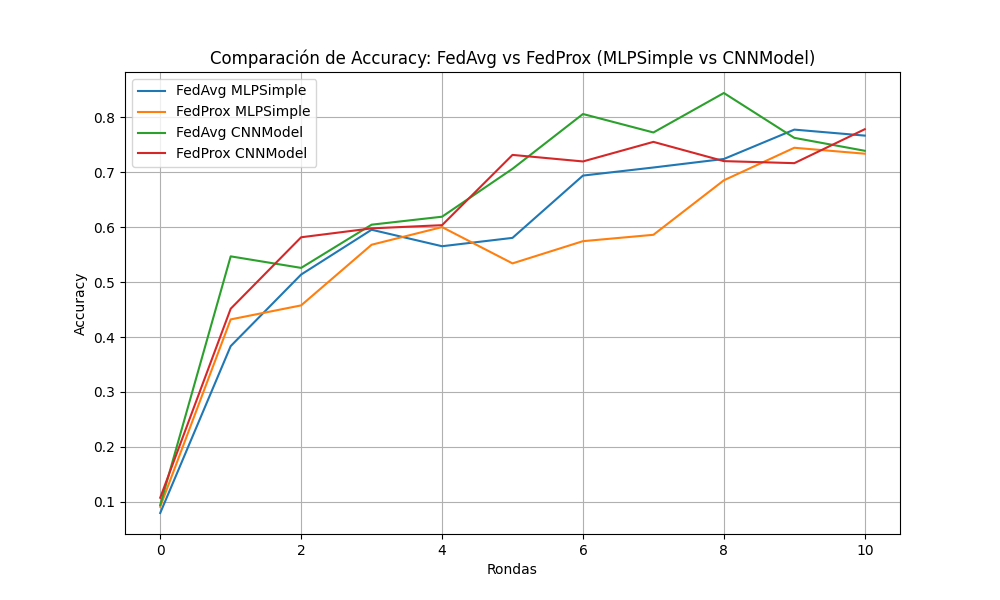
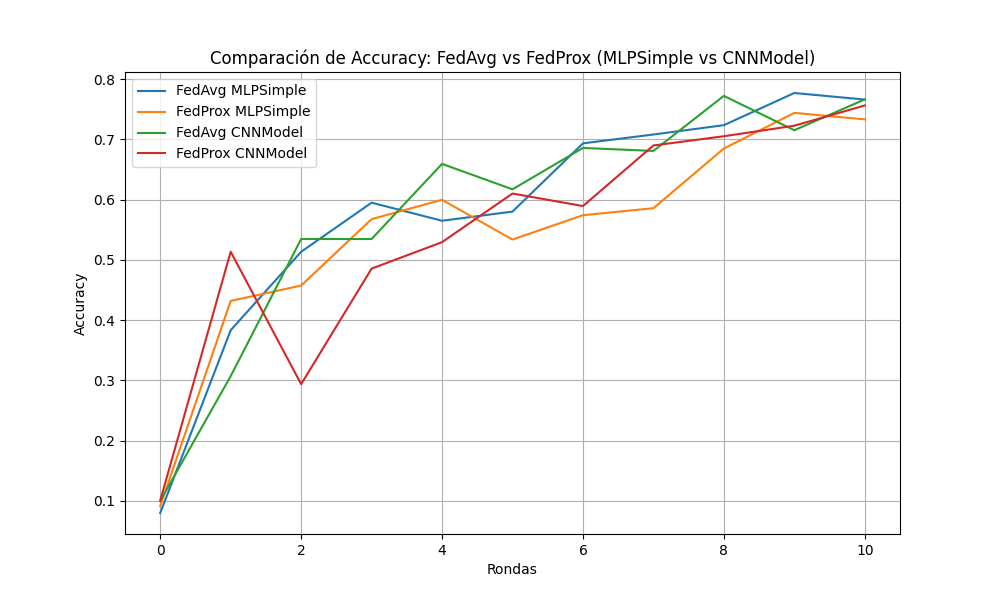
Nueva CNN

diff --git a/p2/1-AprendizajeFederado/task.py b/p2/1-AprendizajeFederado/task.py
@@ -27,9 +27,15 @@ class CNNModel(nn.Module):
     """Simple CNN model for Fashion-MNIST"""
     def __init__(self):
         super(CNNModel, self).__init__()
+        
         self.conv1 = nn.Conv2d(1, 16, kernel_size=3, stride=1, padding=1)
+        self.bn1 = nn.BatchNorm2d(16)
+
         self.conv2 = nn.Conv2d(16, 32, kernel_size=3, stride=1, padding=1)
+        self.bn2 = nn.BatchNorm2d(32)
+
         self.conv3 = nn.Conv2d(32, 64, kernel_size=3, stride=1, padding=1)
+        self.bn3 = nn.BatchNorm2d(64)
         
         self.pool = nn.MaxPool2d(kernel_size=2, stride=2)
         self.dropout = nn.Dropout(0.25)
@@ -38,14 +44,19 @@ class CNNModel(nn.Module):
         self.fc2 = nn.Linear(128, 10)
 
     def forward(self, x):
-        x = F.relu(self.conv1(x))
+        x = F.relu(self.bn1(self.conv1(x)))
         x = self.pool(x)
-        x = F.relu(self.conv2(x))
+
+        x = F.relu(self.bn2(self.conv2(x)))
         x = self.pool(x)
-        x = F.relu(self.conv3(x))
+
+        x = F.relu(self.bn3(self.conv3(x)))
+
         x = x.view(x.size(0), -1)
+
         x = F.relu(self.fc1(x))
         x = self.fc2(x)
+
         return x
 
 fds = None  # Cache FederatedDataset

diff --git a/p2/README.md b/p2/README.md
@@ -57,7 +57,7 @@ cd 1-AprendizajeFederado
 
 Situados en este directorio, se podrá ejecutar por terminal cualquiera de los experimentos definidos. 
 
-Para tratar de facilitar la experimentación, se ha intentado buscar una manera de que la selección del modelo a utilizar, el método de agregación y los hiperparámetros no implique la modificación de los scripts principales (`server_app.py`, `client_app.py` y `task.py`). Para ello, se han optimizado los códigos para que se lean estos parámetros desde diferentes archivos `.toml`.
+Para tratar de facilitar la experimentación, se ha intentado buscar una manera de que la selección del modelo a utilizar, el método de agregación y los hiperparámetros no implique la modificación de los scripts principales (`server_app.py`, `client_app.py` y `task.py`). Para ello, se han optimizado los códigos para que se lean estos parámetros desde diferentes archivos `.toml`. Se han incorporado condicionales y variables globales para que, en función del archivo `.toml` que se utilice al ejecutar el comando `flwr run .`, se seleccionen los parámetros deseados.
 
 Para ejecutar un experimento concreto de los definidos en la carpeta `experiments`, se utilizará el siguiente comando:
 
